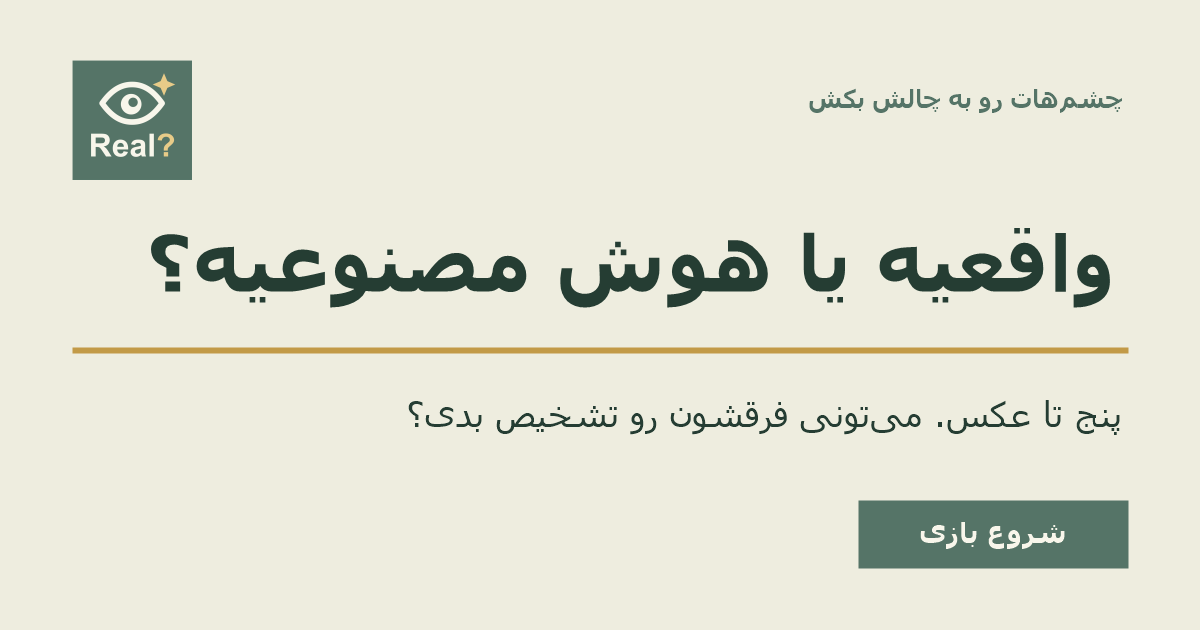
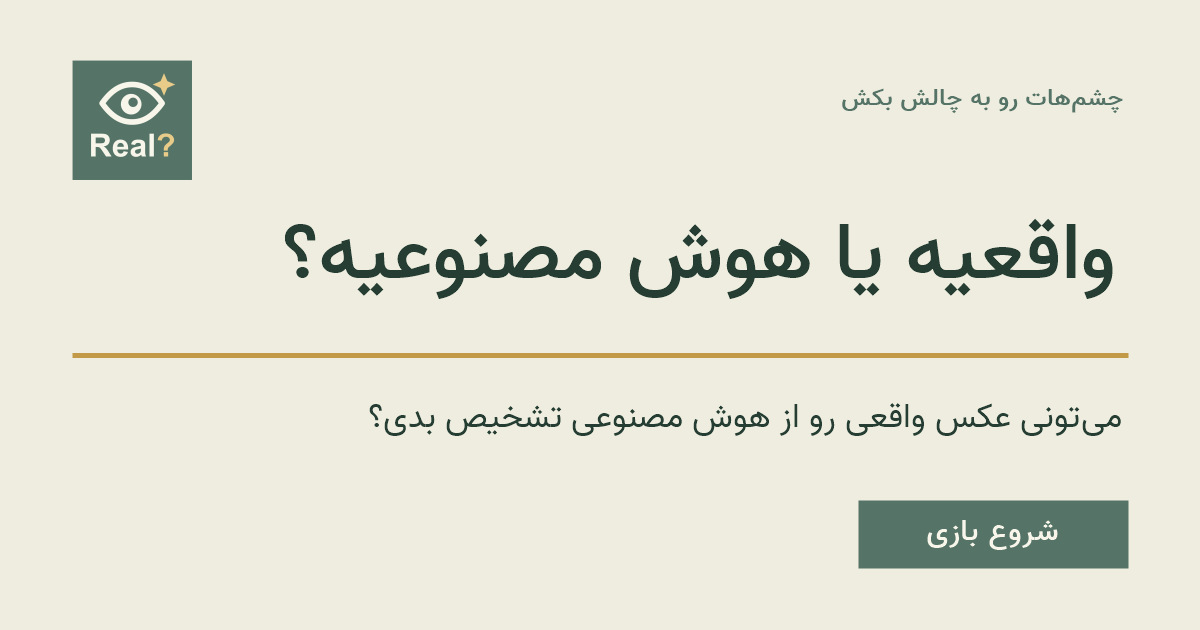
Refine sharing typography and simplify project documentation

diff --git a/README.md b/README.md
@@ -1,6 +1,6 @@
 # Real or AI?
 
-A friendly English/Persian game: decide whether five images are real photographs or AI-generated, then review your score.
+An English/Persian game for spotting AI-generated images.
 
 ## Development
 
@@ -11,43 +11,17 @@ npm ci
 npm run dev
 ```
 
-Open http://127.0.0.1:5174/. Vite watches all files in `public/` and refreshes the browser automatically; CSS changes are applied directly. Development tooling stays out of the published website.
+Open http://127.0.0.1:5174/. Changes reload automatically.
 
 ```sh
 npm test
-npm run format
 npm run format:check
 ```
 
-## Structure
+## Deployment
 
-- `public/`: deployable static website, local images, fonts, and English/Persian pages.
-- `tests/`: game behavior and site integrity checks.
-- `vite.config.mjs`: local development server and reload settings.
-- `.github/workflows/`: checks and GitHub Pages deployment.
-
-Home introduces the game; Start game opens `#play`. The shared title always links Home. Saved rounds and seen-image history remain in browser storage.
-
-Each loaded image gets an eight-second countdown, then skips automatically if unanswered. Settings can turn the timer off and remembers that choice. Dialogs pause the countdown. History shows saved scores, completion dates, and skipped-image counts; older saved answers are retained as an earlier-answers summary. Progress appears directly below each image.
-
-## Image selection
-
-Each test includes one to three AI images. Selection prefers two different subject categories containing both an AI image and a real photo, plus a fifth image from a third category. With only one AI image, it creates one matching pair. When unseen categories run short, it fills the round from the remaining unseen collection without repeating images. New tests pause when no unseen AI images remain.
-
-## Add images
-
-Save each file in `public/`, then add an entry to `public/images.js` with a permanent unique ID, local image path, real/AI answer, English and Persian subject category, and credit. Use the same English category for matching real and AI subjects. Add real and AI examples together where possible. New IDs become available automatically; never rename existing IDs. Categories are hidden during play.
-
-## Deploy
-
-Push to `main`. GitHub Actions checks and deploys `public/` to GitHub Pages. No build step is needed.
-
-## Sharing previews
-
-Every page includes localized Open Graph and Twitter cards, plus favicon and touch icons. The English and Persian preview PNGs in `public/social/` are 1200 × 630 pixels. Sharing URLs use the production GitHub Pages address.
-
-When changing page titles or descriptions, update their sharing metadata too. Keep the localized preview images and icon files in `public/`.
+Push to `main` to check and deploy `public/` to GitHub Pages.
 
 ## Credits
 
-75 photos from [Unsplash](https://unsplash.com/license) via [Lorem Picsum](https://picsum.photos/), plus 25 OpenAI-generated images. Individual credits are in `public/images.js`; the Sources page warns before revealing them. Local Vazir fonts include their license in `public/fonts/OFL.txt`.
+Photos: [Unsplash](https://unsplash.com/license) via [Lorem Picsum](https://picsum.photos/). AI images: OpenAI. Individual image credits are in `public/images.js` and on the Sources page. The Vazir font license is in `public/fonts/OFL.txt`.

diff --git a/AGENTS.md b/AGENTS.md
@@ -35,4 +35,6 @@
 - Remove obsolete prototypes and duplicate output rather than maintaining several competing project directories.
 - At the end of each task, remove unnecessary scripts and temporary helpers. Keep finished assets, application scripts, tests, and required development configuration; do not retain one-time asset-generation or migration scripts.
 - Always remove confirmed dead code, unused translations and dependencies, and duplicate rules before finishing. Preserve compatibility code that still supports saved user data and work currently in use by another active chat.
+- Keep the README concise: setup, checks, deployment, and credits. Do not add task logs, generation details, expansion narratives, or transient collection counts.
+- Use clear, readable fonts in sharing images, with Vazir for Persian. Avoid fixed round lengths in promotional artwork so it remains valid when game length changes.
 - Publish through the existing GitHub Pages workflow when requested. The user requested a one-time history reset for this cleanup; do not reset or force-push history again without a new explicit request.
